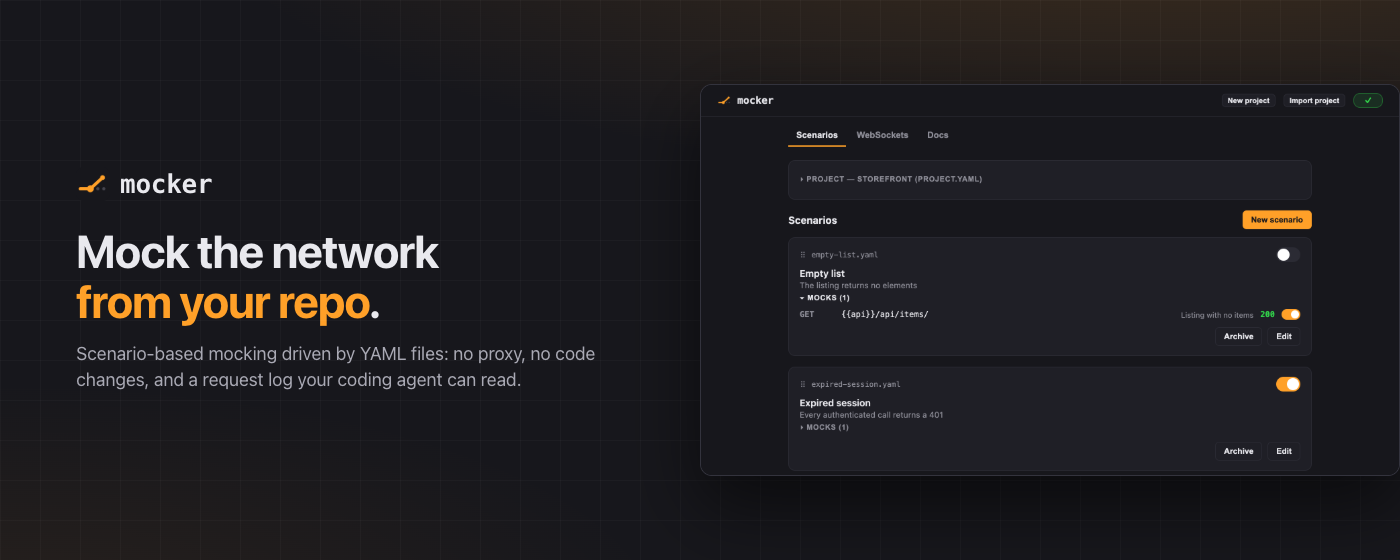
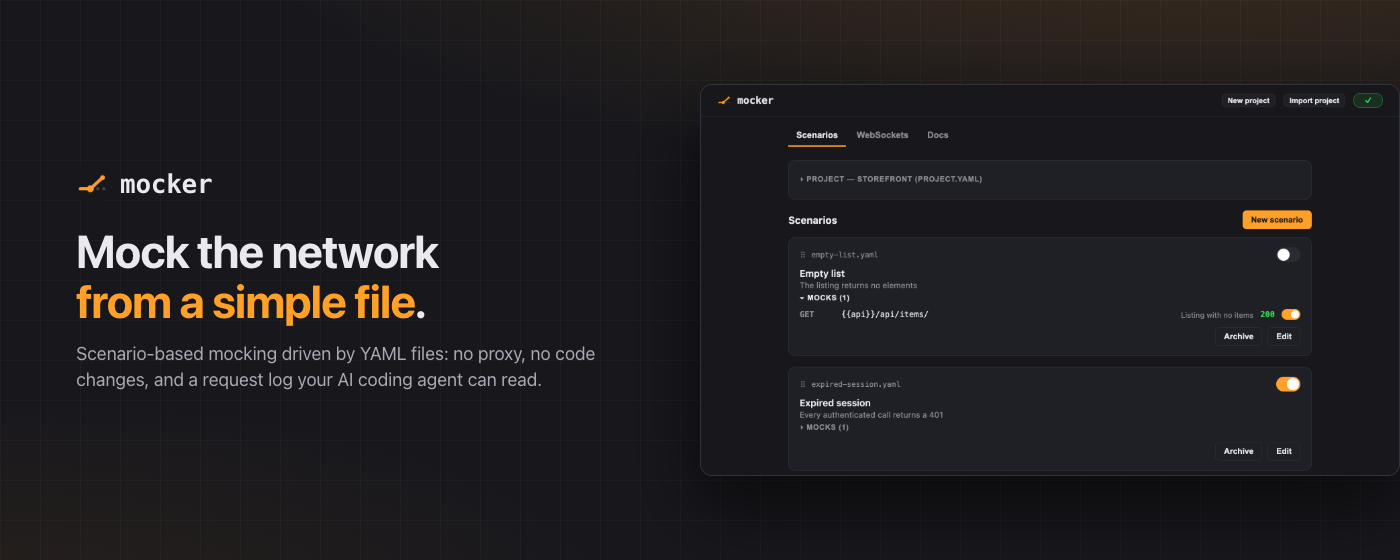
docs: drop the repo framing from every store panel and the listing
The summary was rewritten around ease of use and AI, but the panels and the
long description still sold the repo, which was the framing to remove:

- hero of the marquee: "from your repo" → "from a simple file"
- editor panel: "you see the diff in git status" → "editing the file shows
  up here"
- files panel: "reviewed like code / diff, branch and share" → "nothing
  hidden / read, edit by hand and pass to anyone"
- small tile: "Scenarios as YAML in your repo" → "Plain YAML files, toggled
  from the toolbar or by your agent"
- listing: the folder is no longer pitched through versioning, branches and
  pull requests, and the alarm justification stops using a git pull as its
  example of an external change

The YAML fragment in the files panel now stops after the first mock, since
the longer subline pushed the block down and sliced the last line.

Changed region(s): [[0.1229, 0.4857, 0.3071, 0.5768], [0.2457, 0.6679, 0.3993, 0.6982]]

diff --git a/docs/CHROME_STORE.md b/docs/CHROME_STORE.md
@@ -52,11 +52,11 @@ Because a mock is just a file, an AI coding agent can write it for you: "mock th
 
 The loop closes without a browser. Mocker writes the requests it sees to a log next to your scenarios — method, URL, request body, response status and body, and, when a mock matched, which scenario served it. Your agent reads that log to see what the app really called, writes the YAML, and checks that its mock matched. No screenshots to paste, no copying payloads by hand.
 
-The repo ships a Claude Code skill that teaches an agent the whole workflow (file format, URL matching, verification), so it gets it right on the first try.
+Mocker ships a Claude Code skill that teaches an agent the whole workflow (file format, URL matching, verification), so it gets it right on the first try.
 
 FILES, NOT A DATABASE
 
-Everything mocker knows lives in a folder you pick: one project file plus one YAML file per scenario. "New project" initializes that folder anywhere — an empty directory is enough. Put it inside your project and your mocks are versioned with your branches, reviewed in pull requests and shared with a git pull; keep it anywhere else and mocker works exactly the same.
+Everything mocker knows lives in a folder you pick: one project file plus one YAML file per scenario. "New project" initializes that folder anywhere — an empty directory is enough. Put it next to the app you are working on, or in a scratch directory, or anywhere you like: mocker works the same, and anyone you hand the folder to gets exactly the same mocks.
 
 Saving from the extension writes the YAML; editing the YAML in your editor shows up in the extension. Nothing is hidden in browser storage.
 
@@ -123,7 +123,7 @@ Stores which scenarios and mocks are currently active, the selected environment,
 `alarms`
 
 ```
-A 30-second alarm re-reads the selected folder so that changes made outside the browser — a git pull, an editor, a coding agent writing the YAML — are picked up without the developer having to reconnect anything.
+A 30-second alarm re-reads the selected folder so that changes made outside the browser — an editor, a script, a coding agent writing the YAML — are picked up without the developer having to reconnect anything.
 ```
 
 `host permissions (<all_urls>)`
